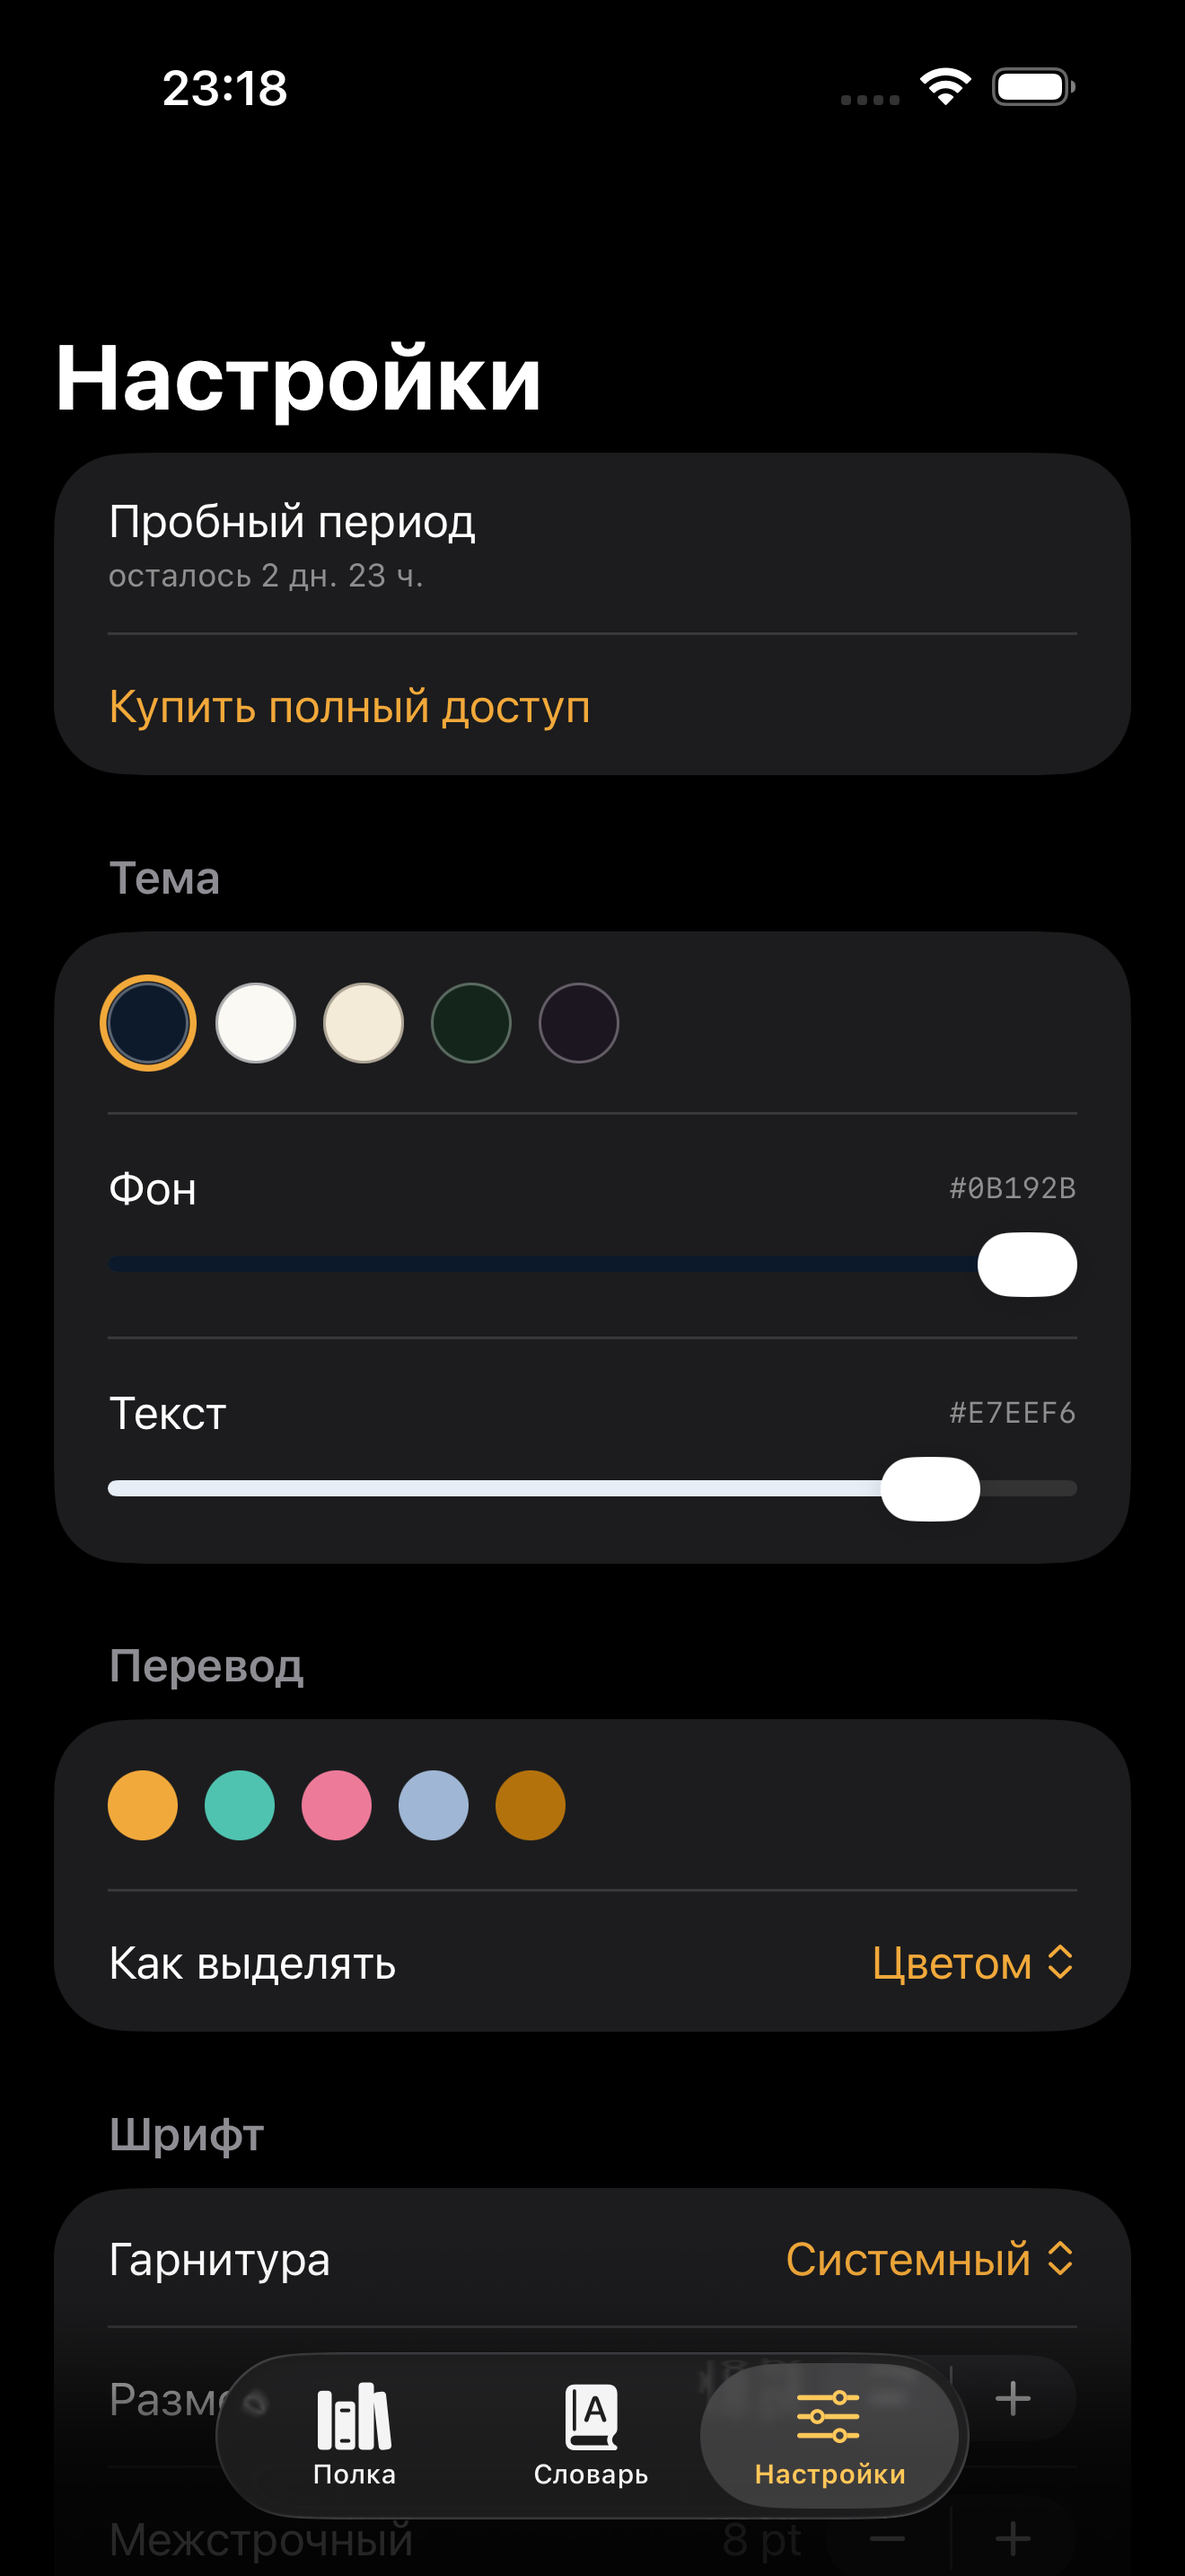
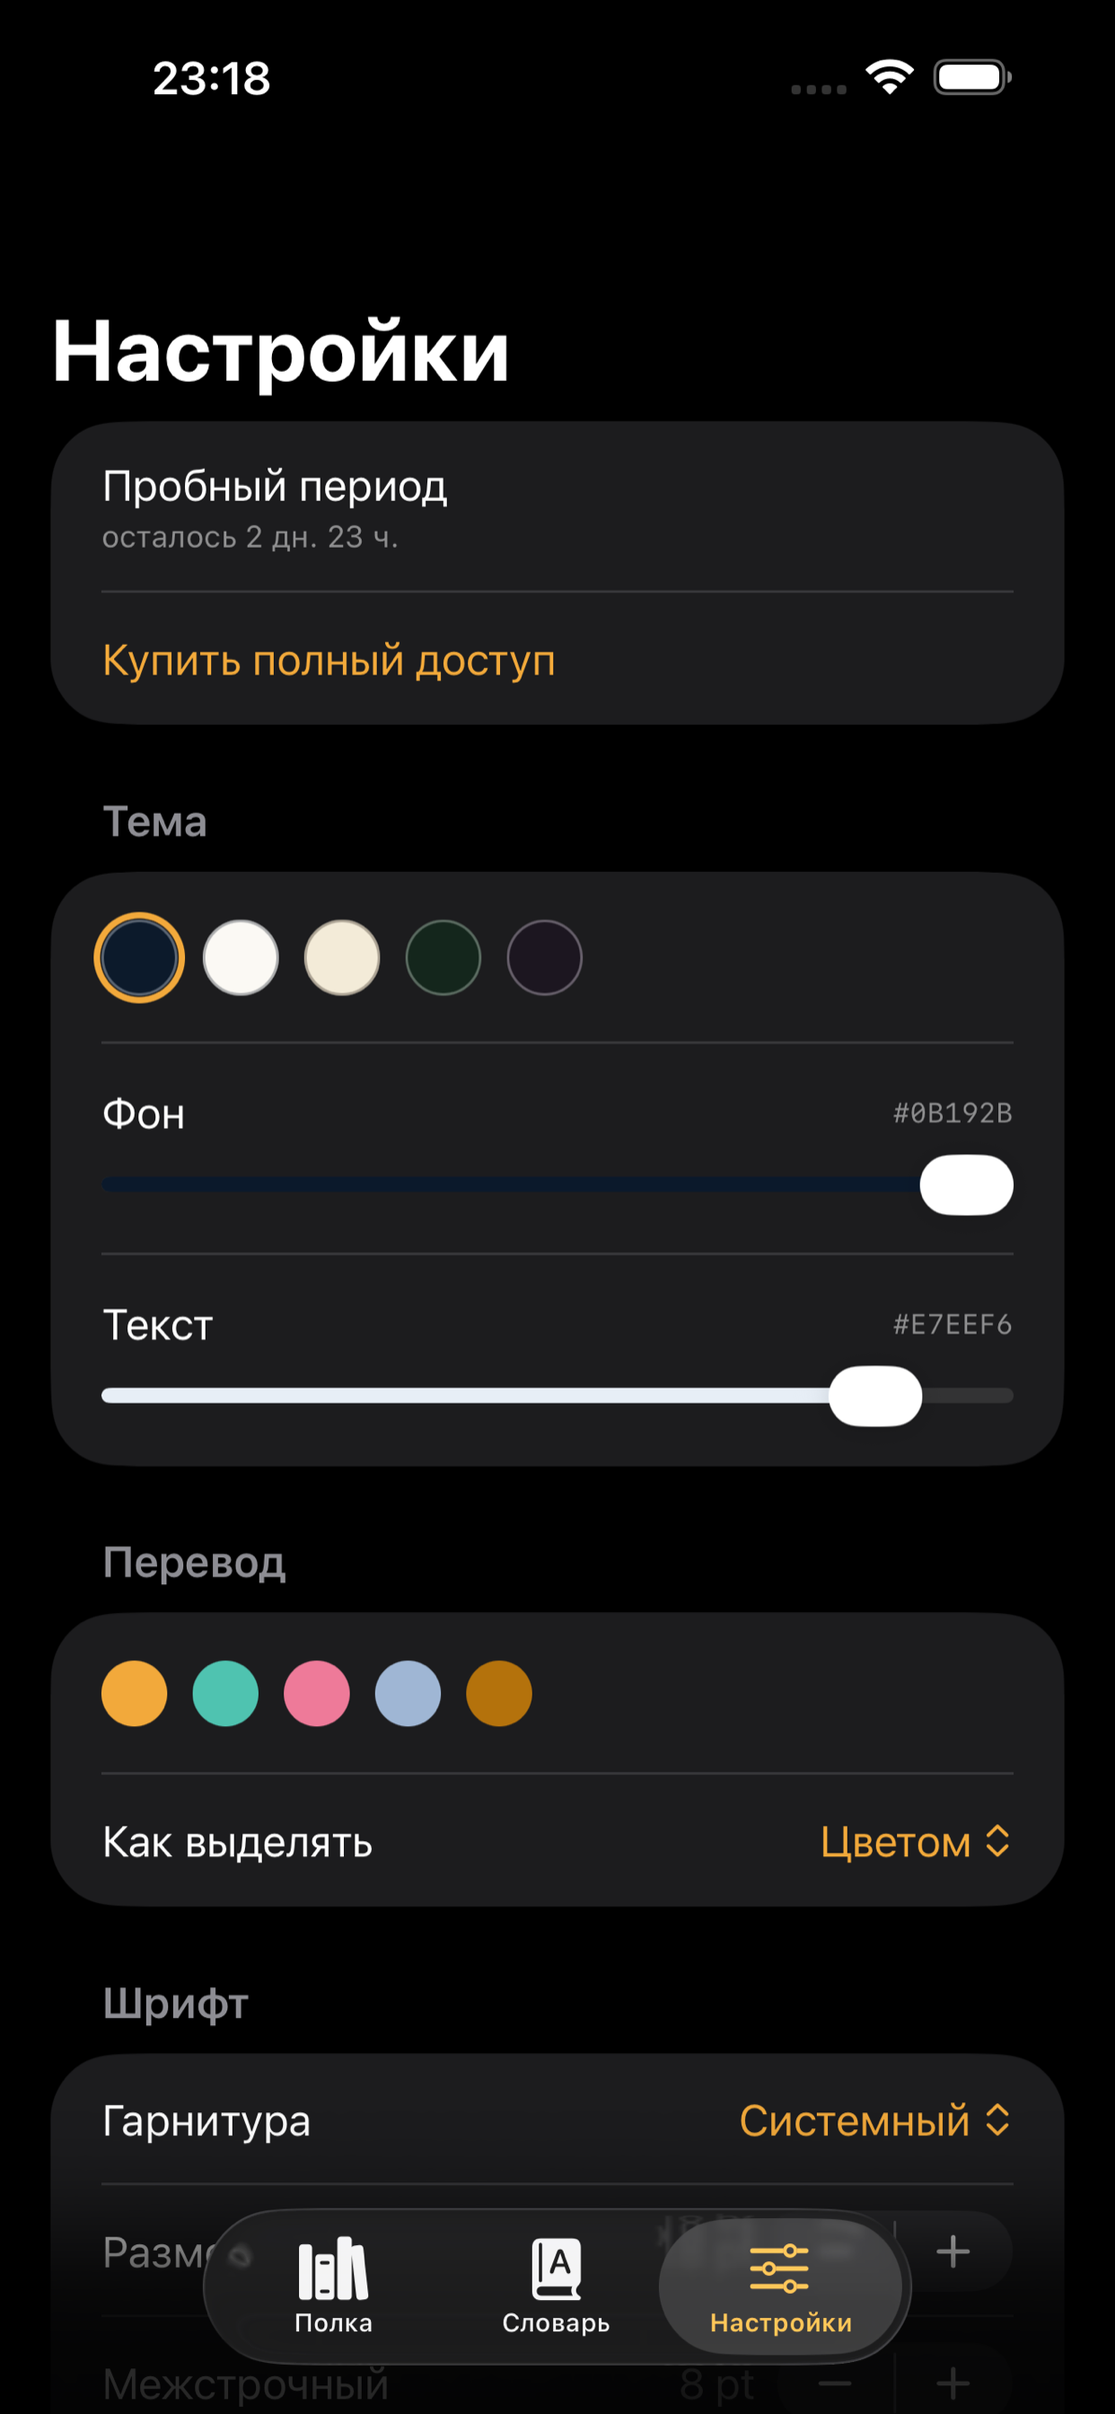
Скриншот покупки в принимаемом размере, пример книги ещё и ссылкой

diff --git a/docs/APPSTORE.md b/docs/APPSTORE.md
@@ -110,6 +110,9 @@ Description «Снимает ограничение в десять страни
 Добавить English (U.K.) — «Full access» и перевод описания.
 
 **Review Information → Screenshot**: приложить `design/покупка-для-ревью.png`.
+Размер 1242×2688 выбран не случайно: поле проверяет картинку по списку
+размеров прошлых поколений, и снимок с 6.9″ (1320×2868) оно отвергает
+с ошибкой «The dimensions of one or more screenshots are wrong».
 
 Тут замкнутый круг, и его надо разорвать сразу. Пока у товара нет скриншота,
 он висит в состоянии **Missing Metadata**, а товар в этом состоянии StoreKit
@@ -192,7 +195,9 @@ their English equivalents so the reader learns vocabulary from context.
 
 HOW TO ADD THE ATTACHED SAMPLE BOOK
 1. Unzip the attachment. It contains one file: "Russian sample book.txt".
-   Save it to the Files app on the device.
+   Save it to the Files app on the device. (Alternatively, download the same
+   file directly: https://yungqiuk.github.io/tenthword/sample-book.txt —
+   in Safari use Share > Save to Files.)
 2. Open the app, tap "+" in the top right corner of the shelf.
 3. Pick the file in the Files browser. The book opens on the shelf.
 4. Tap the book to start reading. The orange words are the English
